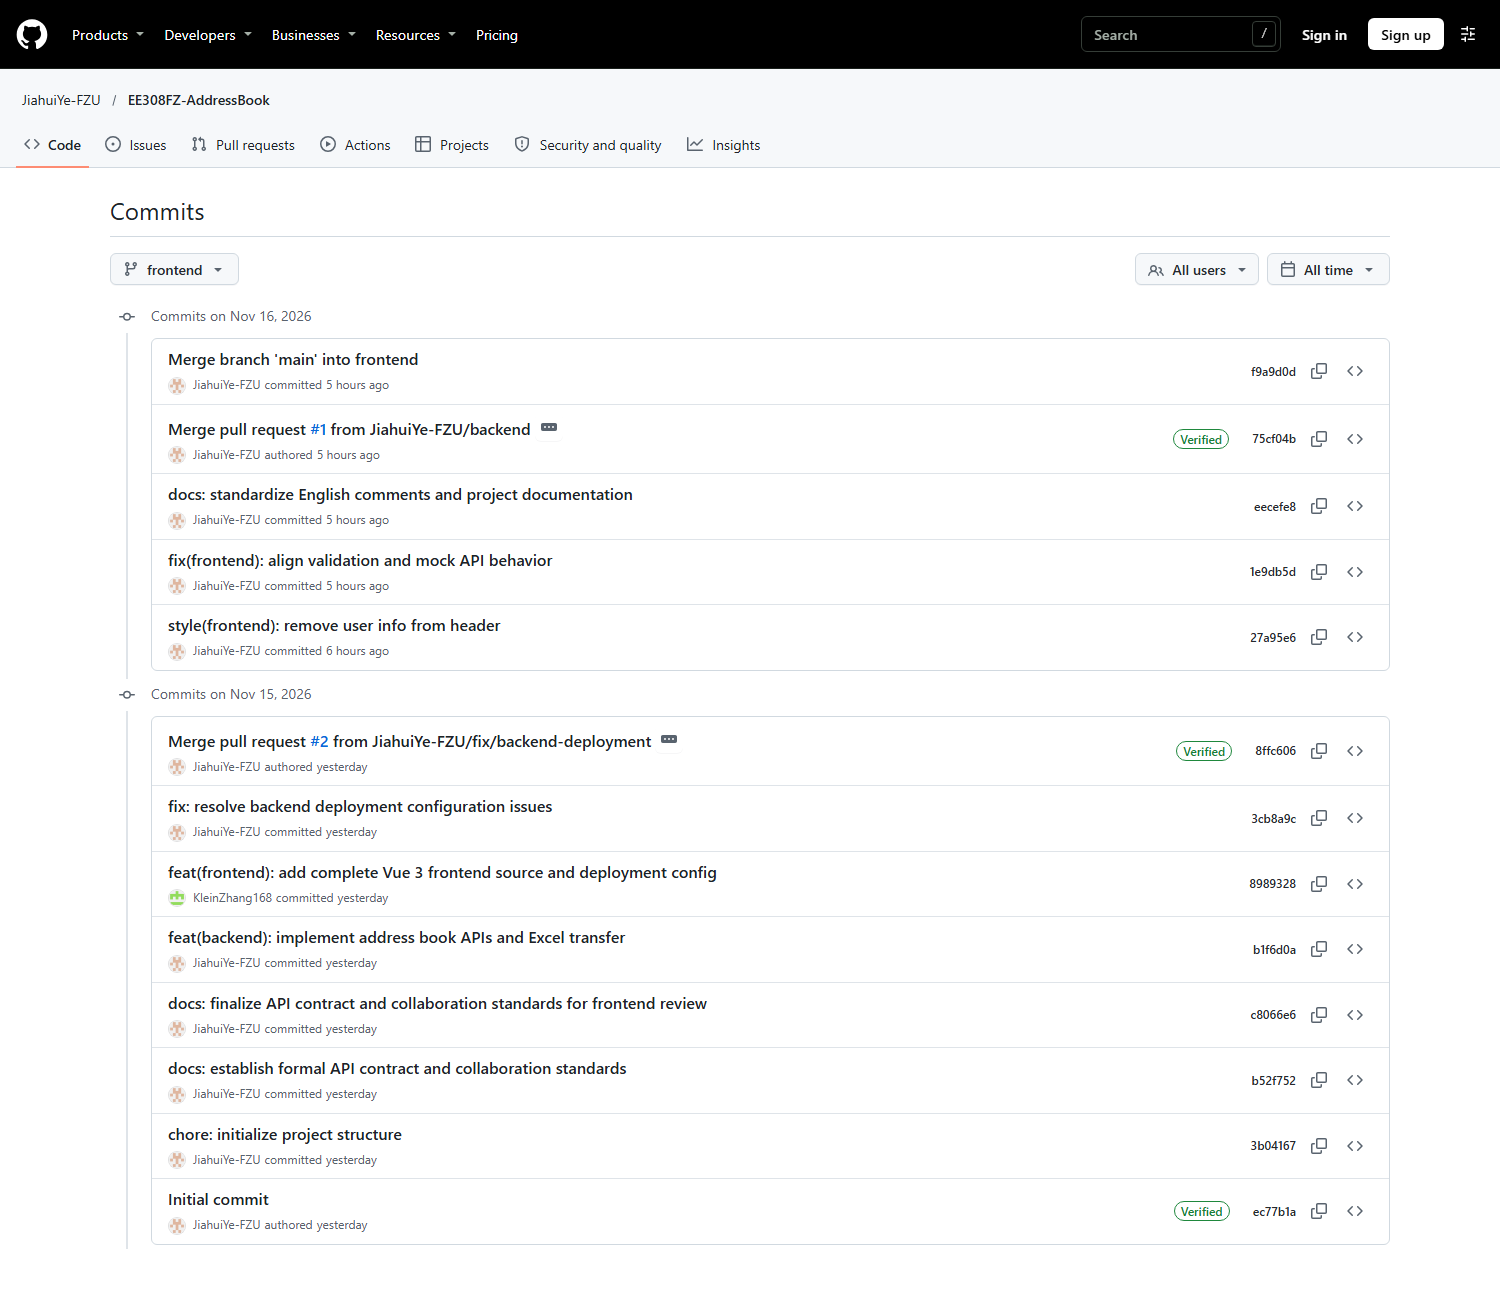
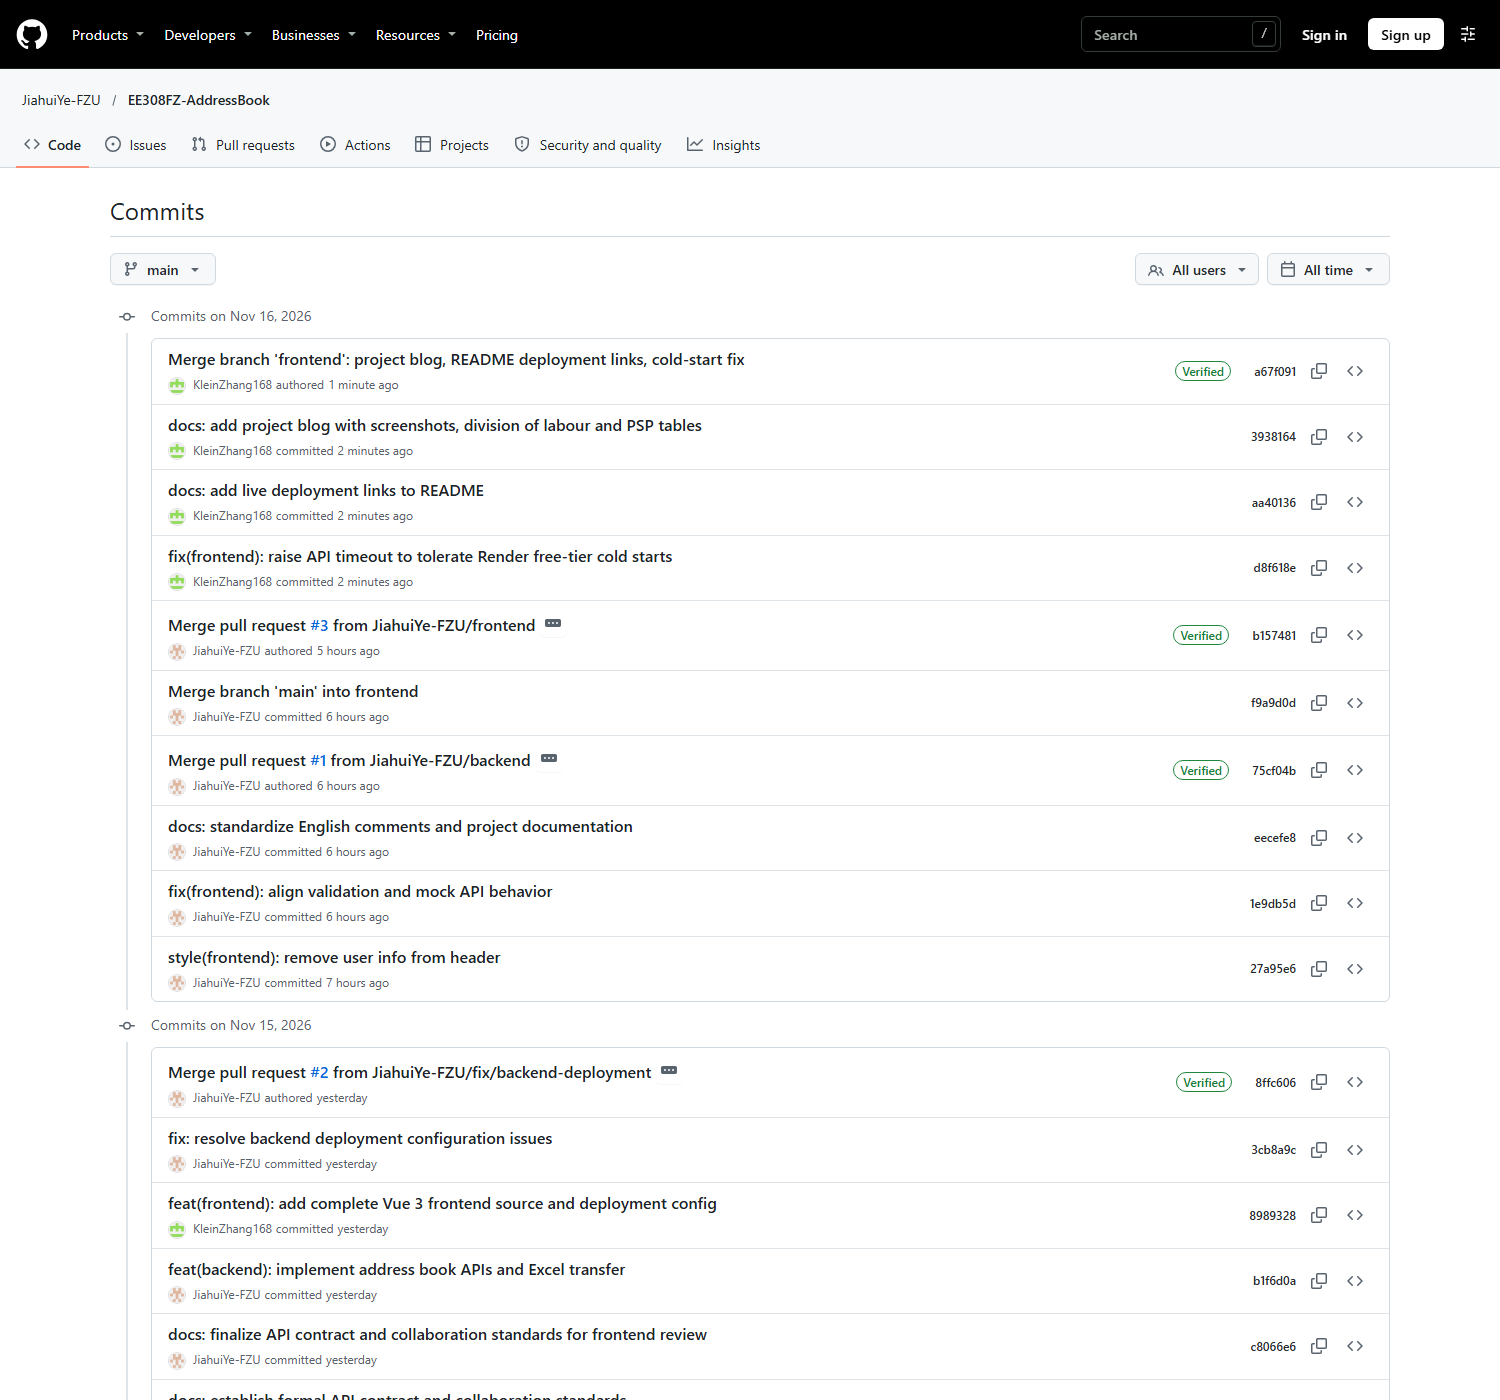
docs: refresh commit statistics and history screenshots

diff --git a/docs/BLOG.md b/docs/BLOG.md
@@ -95,8 +95,10 @@ commit, then integrated with the backend branch through pull requests.*
 
 | Contributor | Role | Commits | Lines added | Lines deleted |
 | --- | --- | ---: | ---: | ---: |
-| Ye Jiahui (`JiahuiYe-FZU`) | Backend + integration | 9 | ≈ 3,540 | ≈ 1,150 |
-| Zhang Sufang (`KleinZhang168`) | Frontend | 4 | ≈ 9,200 | ≈ 30 |
+| Ye Jiahui (`JiahuiYe-FZU`) | Backend + integration | 9 | 3,543 | 1,148 |
+| Zhang Sufang (`KleinZhang168`) | Frontend | 4 | 9,550 | 254 |
+
+*Statistics captured on 2026-11-16 23:20 (UTC+8) at commit `3938164`; merge commits are excluded.*
 
 ![Commits authored by KleinZhang168](blog/github-commits-zhang.png)
 
